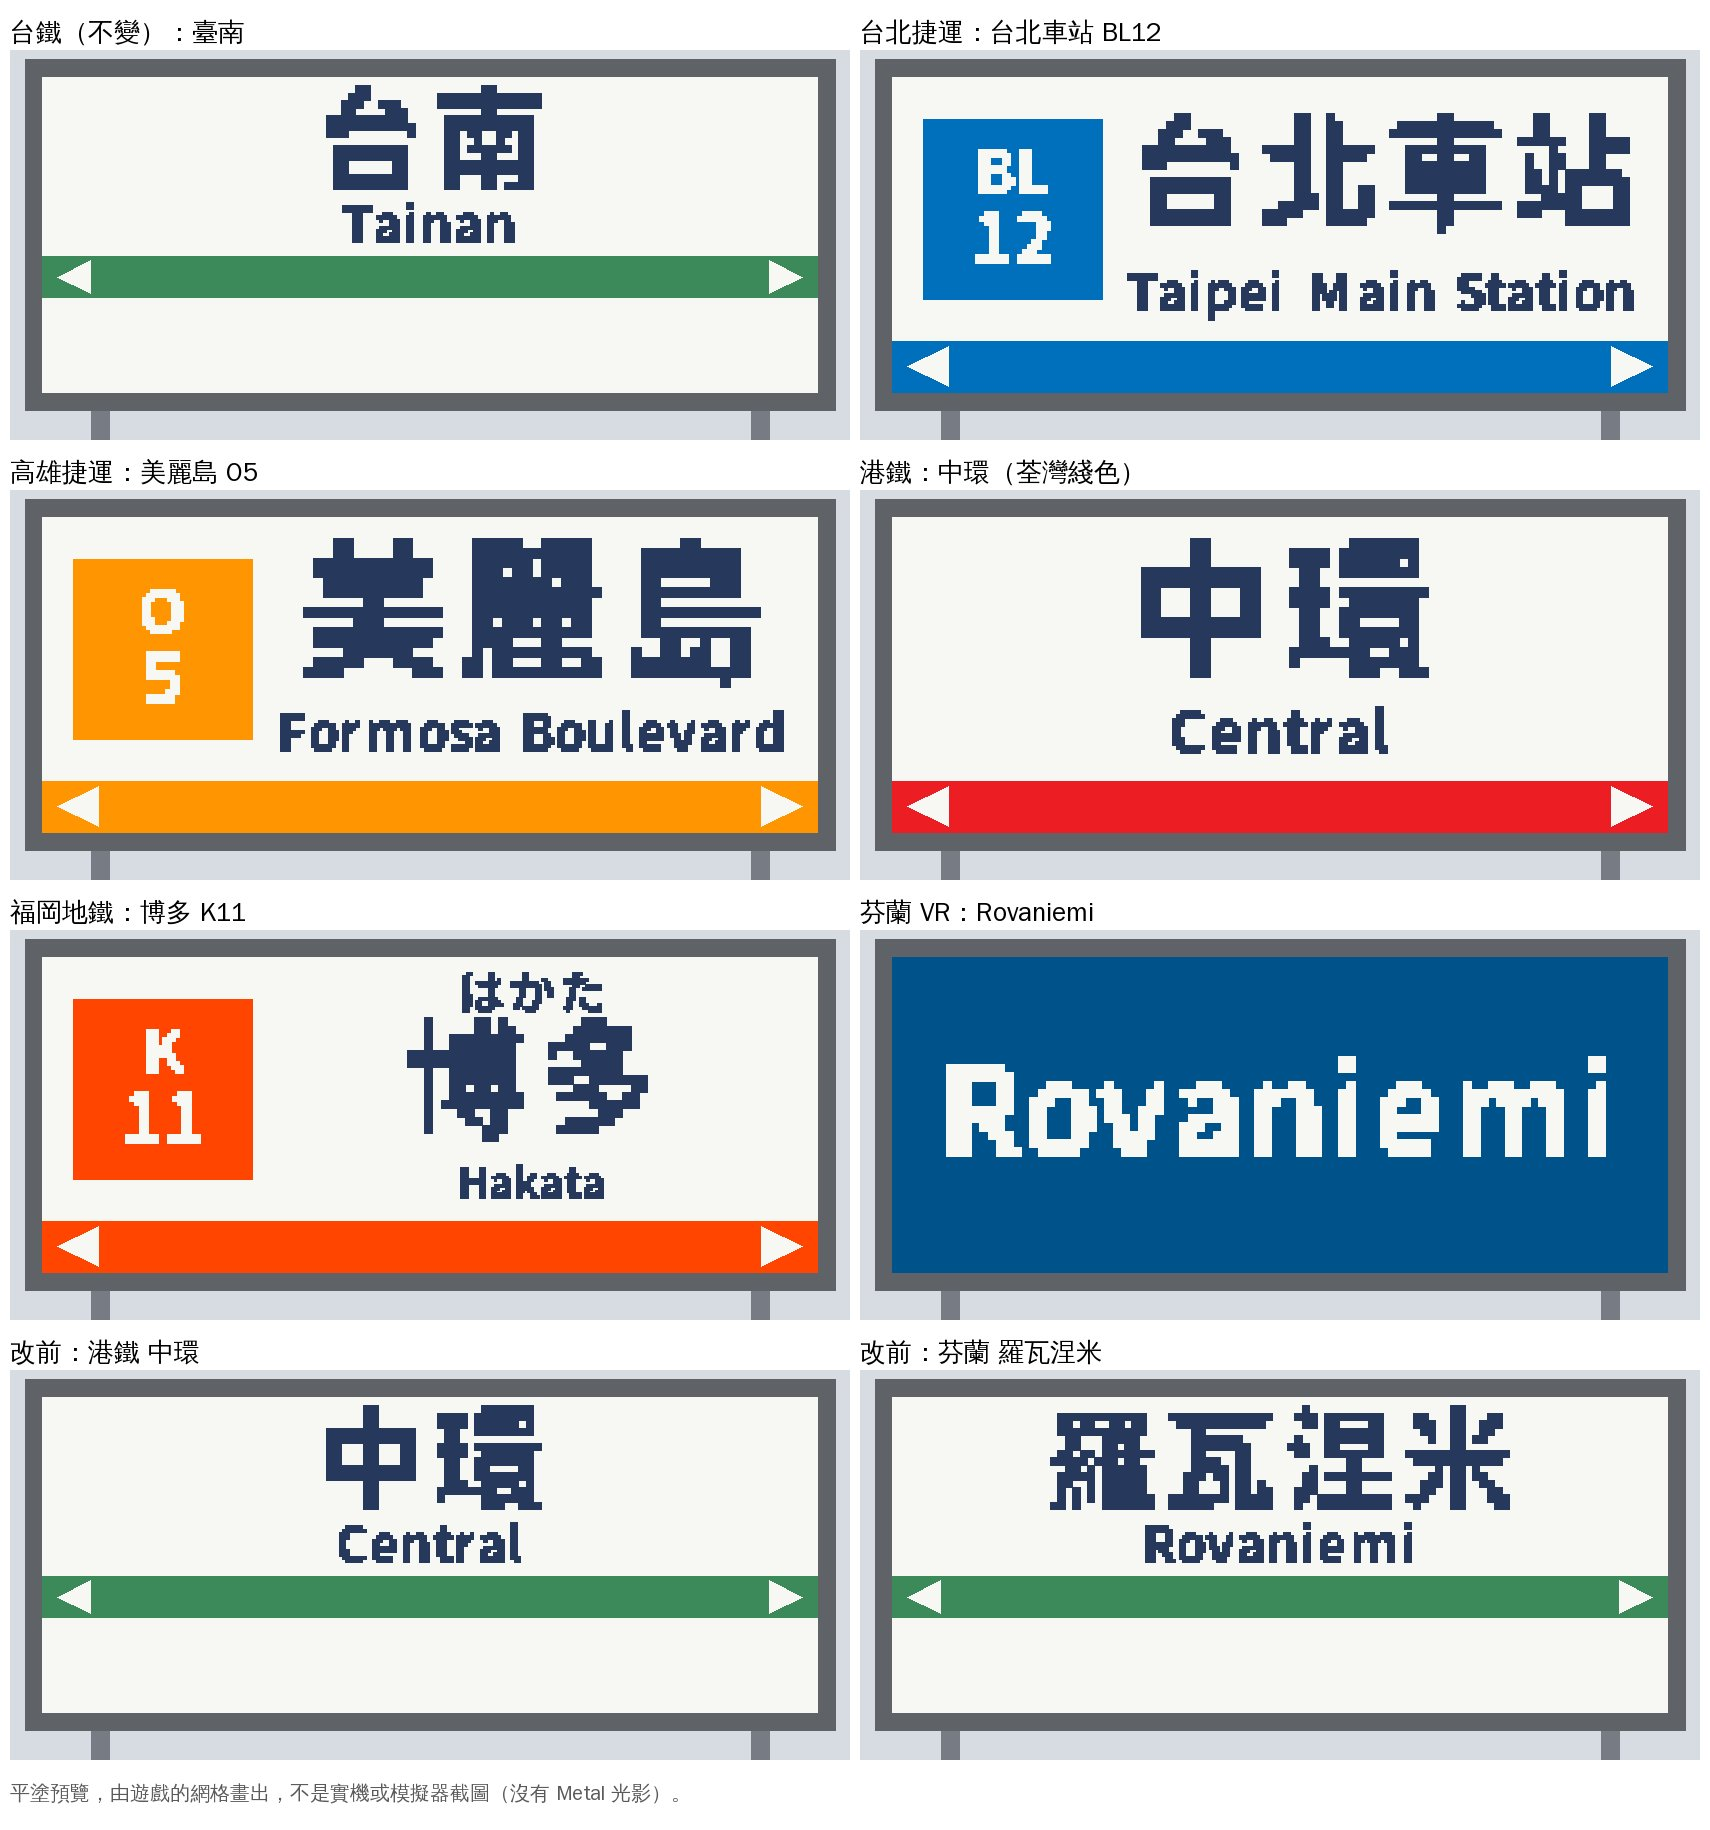
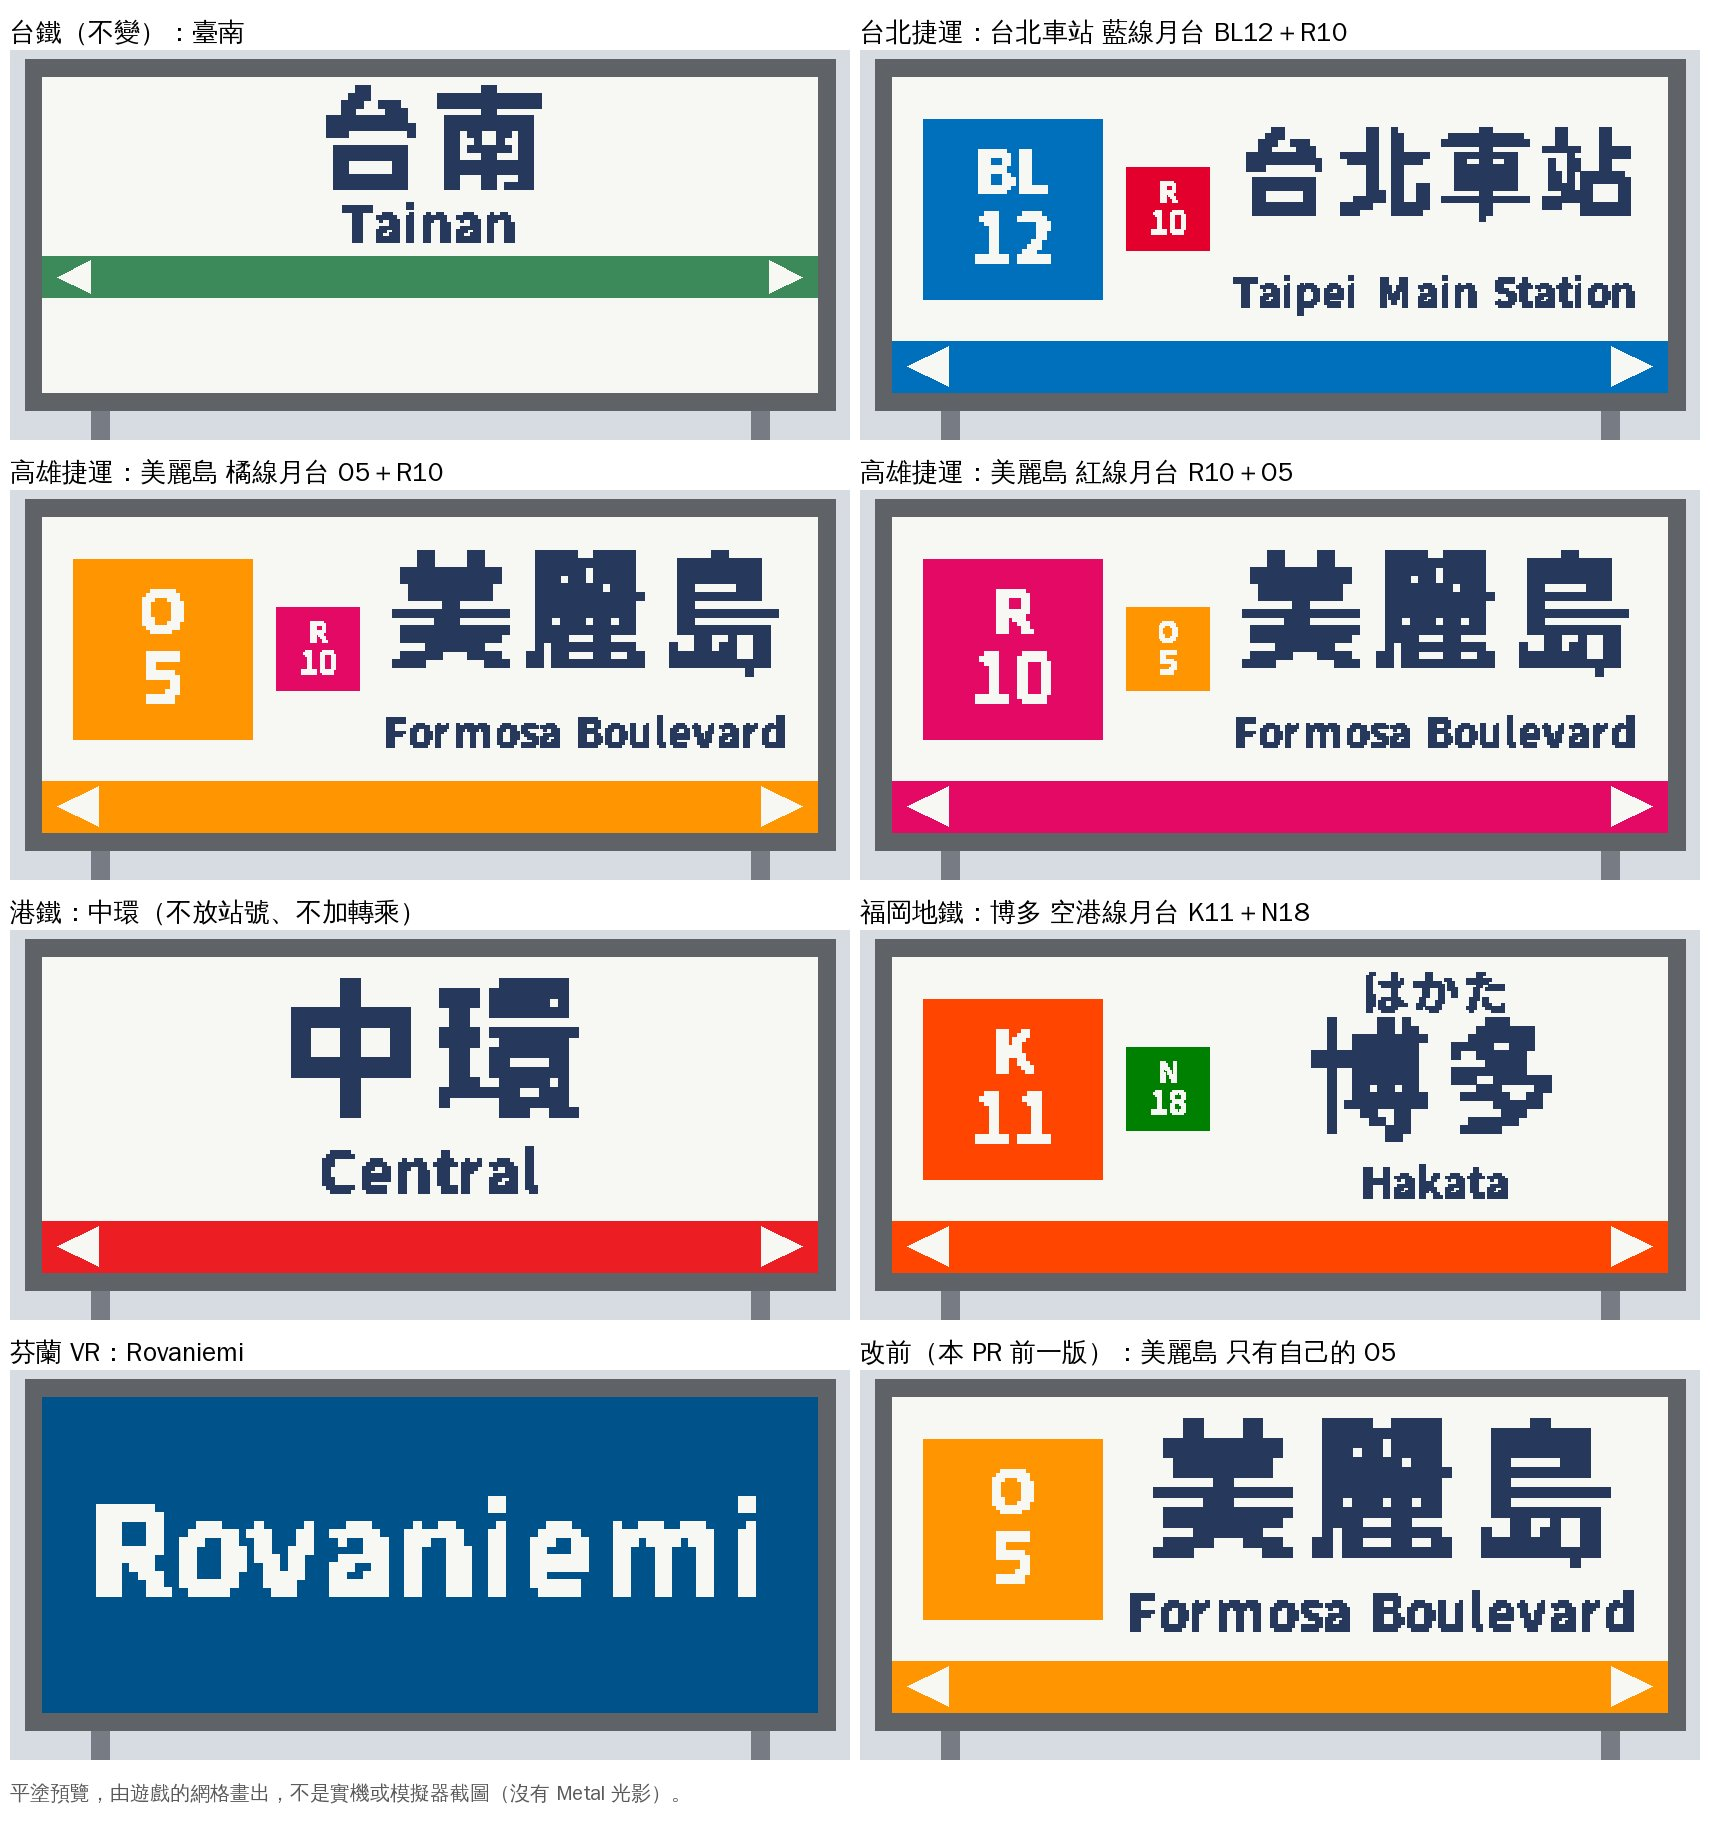
Transfer stations' metro boards show the other lines' numbers beside their own
As on Taipei's and Kaohsiung's boards: Formosa Boulevard's Orange Line
platform shows O5 with a small R10, its Red Line platform R10 with a small
O5. A number is matched to a line by its exact letters before the looser
rule (Da'an's R05 is the Red Line's, not the Brown Line's).

Claude-Session: https://claude.ai/code/session_01YGNNuperYWtCHvDWxQaPDz

diff --git a/Sources/GamePresentation/Map3DPlatformNameBoards.swift b/Sources/GamePresentation/Map3DPlatformNameBoards.swift
@@ -146,10 +146,17 @@ extension Map3DJapaneseNameBoards {
     /// line a real line's key names (`K`, `BL`, `R_XBT`, Kaohsiung's
     /// `KR`, Taichung's `TG`): its letters are the line's, a branch's
     /// suffix (`_XBT`) aside, or the line's but its first letter.
-    static func number(_ number: String, isOn line: String) -> Bool {
+    static func number(_ number: String, isOn line: String, exactly: Bool = false) -> Bool {
         let letters = Self.line(ofNumber: number)
         let base = String(line.split(separator: "_").first ?? Substring(line))
-        return letters == base || (base.count > 1 && letters == String(base.dropFirst()))
+        return letters == base || (!exactly && base.count > 1 && letters == String(base.dropFirst()))
+    }
+
+    /// The first of `candidates` that `number` is on (``number(_:isOn:exactly:)``):
+    /// one whose letters are exactly its line's before one by the looser rule
+    /// (Da'an's R05 is on the Red Line `R`, not the Brown Line `BR`).
+    static func first<Value>(_ candidates: [Value], on number: String, line: (Value) -> String) -> Value? {
+        candidates.first { Self.number(number, isOn: line($0), exactly: true) } ?? candidates.first { Self.number(number, isOn: line($0)) }
     }
 }
 
@@ -186,6 +193,14 @@ extension Map3DPlatformProps {
         let style: BoardStyle
         let reading: String?
         let number: String?
+        let colour: UInt32
+        /// TRANSFER-BADGES: an interchange's other lines' numbers and
+        /// colours, small beside its own, as the metros' boards show them.
+        var transfers: [Badge] = []
+    }
+
+    struct Badge: Equatable {
+        let number: String
         let colour: UInt32
     }
 
@@ -232,15 +247,24 @@ struct Map3DBoardSign: Equatable {
         let line = realLine.map(Map3DJapaneseNameBoards.line(ofRealLine:))
         let number: String?
         if let line {
-            number = board.numbers.first { Map3DJapaneseNameBoards.number($0, isOn: line) } ?? (board.numbers.count == 1 ? board.numbers[0] : nil)
+            number = board.numbers.first { Map3DJapaneseNameBoards.number($0, isOn: line, exactly: true) }
+                ?? board.numbers.first { Map3DJapaneseNameBoards.number($0, isOn: line) } ?? (board.numbers.count == 1 ? board.numbers[0] : nil)
         } else {
             number = board.numbers.first
         }
         let lines = board.colours.sorted { $0.key < $1.key }
         var colour = line.flatMap { board.colours[$0] }
-        if colour == nil, let number { colour = lines.first { Map3DJapaneseNameBoards.number(number, isOn: $0.key) }?.value }
+        if colour == nil, let number { colour = Map3DJapaneseNameBoards.first(lines, on: number) { $0.key }?.value }
         let shown = colour ?? lines.first?.value ?? Map3DPalette.playerRim
-        return (board.name, board.second, Map3DPlatformProps.StyledBoard(style: board.style, reading: board.reading, number: number, colour: shown))
+        // TRANSFER-BADGES: the station's other lines' numbers, each in its
+        // line's colour, at most two.
+        var others: [Map3DPlatformProps.Badge] = []
+        for other in board.numbers where other != number && !others.contains(where: { $0.number == other }) && others.count < 2 {
+            guard let colour = Map3DJapaneseNameBoards.first(lines, on: other, line: { $0.key })?.value else { continue }
+            others.append(Map3DPlatformProps.Badge(number: other, colour: colour))
+        }
+        return (board.name, board.second, Map3DPlatformProps.StyledBoard(style: board.style, reading: board.reading, number: number,
+                                                                          colour: shown, transfers: others))
     }
 }
 
@@ -457,16 +481,30 @@ extension Map3DScene.Builder {
             var textLeft = -faceLength / 2 + 0.1
             if let number = styled.number {
                 let side = min(room * 0.78, 0.6), middle = bandHigh + room / 2
-                let badgeLeft = textLeft, badgeRight = badgeLeft + side
-                quad(badgeLeft, middle - side / 2, badgeRight, middle + side / 2, 0.006, styled.colour)
-                let letters = Map3DJapaneseNameBoards.line(ofNumber: number)
-                let figures = String(number.dropFirst(letters.count))
-                let badgeMiddle = (badgeLeft + badgeRight) / 2
-                write(Map3DBoardGlyphs.layout(letters), height: side * 0.36, middle: middle + side * 0.2, centre: badgeMiddle,
-                      span: side * 0.8, ink: Map3DPalette.sidewalk, lift: 0.01)
-                write(Map3DBoardGlyphs.layout(figures), height: side * 0.42, middle: middle - side * 0.17, centre: badgeMiddle,
-                      span: side * 0.8, ink: Map3DPalette.sidewalk, lift: 0.01)
-                textLeft = badgeRight + 0.08
+                // A number in its line's colour, its letters over its
+                // figures in white, `side` square with its middle at `x`, `y`.
+                func badge(_ number: String, colour: UInt32, x: Float, y: Float, side: Float) {
+                    quad(x - side / 2, y - side / 2, x + side / 2, y + side / 2, 0.006, colour)
+                    let letters = Map3DJapaneseNameBoards.line(ofNumber: number)
+                    let figures = String(number.dropFirst(letters.count))
+                    write(Map3DBoardGlyphs.layout(letters), height: side * 0.36, middle: y + side * 0.2, centre: x,
+                          span: side * 0.8, ink: Map3DPalette.sidewalk, lift: 0.01)
+                    write(Map3DBoardGlyphs.layout(figures), height: side * 0.42, middle: y - side * 0.17, centre: x,
+                          span: side * 0.8, ink: Map3DPalette.sidewalk, lift: 0.01)
+                }
+                badge(number, colour: styled.colour, x: textLeft + side / 2, y: middle, side: side)
+                textLeft += side + 0.08
+                // TRANSFER-BADGES: the other lines' numbers, smaller, in a
+                // column beside it (two at most), as on the metros'
+                // boards at an interchange.
+                if !styled.transfers.isEmpty {
+                    let small = side * 0.46, gap = side - 2 * small
+                    let top = styled.transfers.count == 1 ? middle : middle + (small + gap) / 2
+                    for (index, other) in styled.transfers.enumerated() {
+                        badge(other.number, colour: other.colour, x: textLeft + small / 2, y: top - Float(index) * (small + gap), side: small)
+                    }
+                    textLeft += small + 0.08
+                }
             }
             let textRight = faceLength / 2 - 0.1
             let centre = (textLeft + textRight) / 2, span = textRight - textLeft

diff --git a/Tests/GamePresentationTests/PlatformNameBoardStylesTests.swift b/Tests/GamePresentationTests/PlatformNameBoardStylesTests.swift
@@ -59,7 +59,9 @@ final class PlatformNameBoardStylesTests: XCTestCase {
         let k = try XCTUnwrap(hakata.board(realLine: "fksubway:K")), n = try XCTUnwrap(hakata.board(realLine: "fksubway:N"))
         XCTAssertEqual(k.name, "博多")
         XCTAssertEqual(k.second, "Hakata")
-        XCTAssertEqual(k.board, Props.StyledBoard(style: .metro, reading: "はかた", number: "K11", colour: Map3DColor.rgb(0xFF4500)))
+        XCTAssertEqual(k.board, Props.StyledBoard(style: .metro, reading: "はかた", number: "K11", colour: Map3DColor.rgb(0xFF4500),
+                                                  transfers: [Props.Badge(number: "N18", colour: Map3DColor.rgb(0x008000))]))
+        XCTAssertEqual(n.board.transfers.map(\.number), ["K11"])
         XCTAssertEqual(n.board.number, "N18")
         XCTAssertEqual(n.board.colour, Map3DColor.rgb(0x008000))
         XCTAssertEqual(hakata.board(realLine: nil)?.board.number, "K11")
@@ -78,7 +80,9 @@ final class PlatformNameBoardStylesTests: XCTestCase {
         XCTAssertEqual(brown.board.number, "BR09")
         XCTAssertNil(brown.board.reading)
         XCTAssertEqual(brown.board.colour, Map3DColor.rgb(0xC48C31))
+        XCTAssertEqual(brown.board.transfers, [Props.Badge(number: "R05", colour: Map3DColor.rgb(0xE3002C))])
         XCTAssertEqual(daan.board(realLine: "trtc:R")?.board.number, "R05")
+        XCTAssertEqual(daan.board(realLine: "trtc:R")?.board.transfers.map(\.number), ["BR09"])
         XCTAssertEqual(daan.board(realLine: "trtc:R_XBT")?.board.number, "R05")
         XCTAssertEqual(try XCTUnwrap(signs["忠孝復興"]).board(realLine: "trtc:BL")?.board.number, "BL15")
         // The railway's platforms keep decision 882's board.
@@ -99,6 +103,9 @@ final class PlatformNameBoardStylesTests: XCTestCase {
         XCTAssertEqual(sign.board(realLine: "krtc:KO")?.board.number, "O5")
         XCTAssertEqual(sign.board(realLine: "krtc:KO")?.board.colour, 2)
         XCTAssertEqual(sign.board(realLine: "krtc:KR")?.board.number, "R10")
+        // TRANSFER-BADGES: each platform's board shows the other line's number too.
+        XCTAssertEqual(sign.board(realLine: "krtc:KO")?.board.transfers, [Props.Badge(number: "R10", colour: 1)])
+        XCTAssertEqual(sign.board(realLine: "krtc:KR")?.board.transfers, [Props.Badge(number: "O5", colour: 2)])
         XCTAssertEqual(sign.board(realLine: nil)?.board.colour, numbers.first == "O5" ? 2 : 1)
     }
 
@@ -157,13 +164,17 @@ final class PlatformNameBoardStylesTests: XCTestCase {
             typealias Sample = (name: String, second: String?, styled: Props.StyledBoard?)
             let samples: [Sample] = [
                 ("臺南", "Tainan", nil),
-                ("台北車站", "Taipei Main Station", Props.StyledBoard(style: .metro, reading: nil, number: "BL12", colour: Map3DColor.rgb(0x0070BD))),
-                ("美麗島", "Formosa Boulevard", Props.StyledBoard(style: .metro, reading: nil, number: "O5", colour: Map3DColor.rgb(0xFF9500))),
+                ("台北車站", "Taipei Main Station", Props.StyledBoard(style: .metro, reading: nil, number: "BL12", colour: Map3DColor.rgb(0x0070BD),
+                                                                   transfers: [Props.Badge(number: "R10", colour: Map3DColor.rgb(0xE3002C))])),
+                ("美麗島", "Formosa Boulevard", Props.StyledBoard(style: .metro, reading: nil, number: "O5", colour: Map3DColor.rgb(0xFF9500),
+                                                              transfers: [Props.Badge(number: "R10", colour: Map3DColor.rgb(0xE30964))])),
+                ("美麗島", "Formosa Boulevard", Props.StyledBoard(style: .metro, reading: nil, number: "R10", colour: Map3DColor.rgb(0xE30964),
+                                                              transfers: [Props.Badge(number: "O5", colour: Map3DColor.rgb(0xFF9500))])),
                 ("中環", "Central", Props.StyledBoard(style: .metro, reading: nil, number: nil, colour: Map3DColor.rgb(0xED1D24))),
-                ("博多", "Hakata", Props.StyledBoard(style: .metro, reading: "はかた", number: "K11", colour: Map3DColor.rgb(0xFF4500))),
+                ("博多", "Hakata", Props.StyledBoard(style: .metro, reading: "はかた", number: "K11", colour: Map3DColor.rgb(0xFF4500),
+                                                     transfers: [Props.Badge(number: "N18", colour: Map3DColor.rgb(0x008000))])),
                 ("Rovaniemi", nil, Props.StyledBoard(style: .finnish, reading: nil, number: nil, colour: Map3DColor.rgb(0x3FA535))),
-                ("中環", "Central", nil),
-                ("羅瓦涅米", "Rovaniemi", nil),
+                ("美麗島", "Formosa Boulevard", Props.StyledBoard(style: .metro, reading: nil, number: "O5", colour: Map3DColor.rgb(0xFF9500))),
             ]
             let boards = samples.map { sample -> [String: Any] in
                 var board = Map3DMesh()

diff --git a/docs/decisions/882.md b/docs/decisions/882.md
@@ -102,3 +102,9 @@
 - 五方：玩家：各地的月台看得出是哪國、哪條線。鐵道迷：站號、路線色、語言照各營運者，芬蘭不再寫中文。開發：一張樣式表、一個轉乘資料的查詢，
   `PlatformNameBoardStylesTests` 每地一支。美術：都在同一個牌框裡，換底色與色帶，不另做模型。音樂：無。
 - 沒做的：各營運者真實牌子的字型、港鐵月台牆上的大字站名、台北捷運牌子上的前後站。
+
+**轉乘站（TRANSFER-BADGES，2026-11-20，同一張 PR）：** 作者問美麗島這種兩線交會的站要不要另外處理。台北捷運與高雄捷運的月台站名牌在轉乘站
+把各線站號方塊並排（台北車站 BL12／R10、美麗島 O5／R10），所以現在捷運式的牌子在自己那條線的站號旁邊，再放其他線的站號小方塊
+（大方塊的 46%，各用自己的路線色，直排最多兩個），站名往右讓位。福岡也照這樣放（博多空港線月台 K11 旁是七隈線 N18；
+日本的牌子多半另用轉乘條，這裡放不下，用小方塊代替）。港鐵月台不顯示站號，不加；跨系統的轉乘（台北車站的機捷 A1、台鐵）不放，
+那是另一個營運者的牌子。站號配路線先找字母完全相同的線，再找去掉第一個字母的（大安的 R05 是紅線 `R`，不是棕線 `BR`）。
